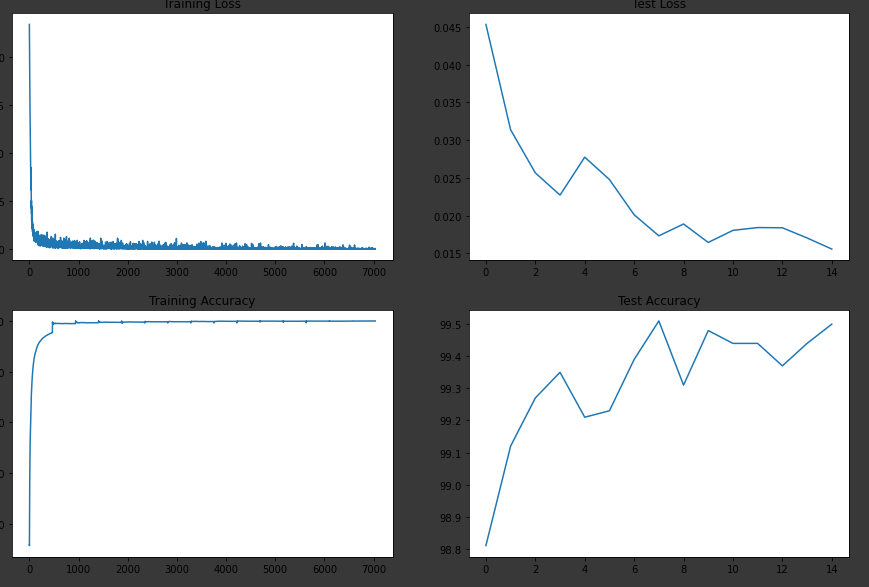
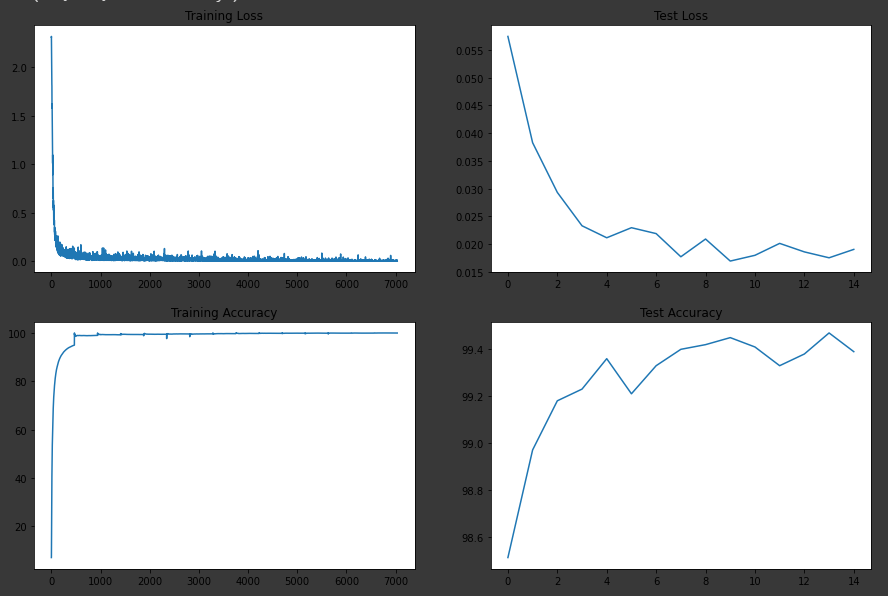
Updated Assets and Readme
1. Updated Older images with new images
2. Added receptive field image
3. Updated Readme

diff --git a/5. Code Drill/README.md b/5. Code Drill/README.md
@@ -28,6 +28,8 @@ For your first attempt, please share your:
 
 Here I aimed to reach at 99.4% accuracy in less than 15 epochs under 8k parameters (One should always aim big). To do so I divided the problem in 4 versions, where each version gets better and better.
 
+**Note:** Receptive Fields for All models is same as there is no structural change, only channel values are being changes. It is calculated and added in the end of the documentation.
+
 ### Version 1:
 
 This version was designed to develop a basic structure of the final model, here the target was not to reach the benchmark given in the assignment, it was more on a decent architecture that gives decent accuracy. 
@@ -44,9 +46,9 @@ This version was designed to develop a basic structure of the final model, here 
 
 **Results:** 
     
-    ```Train Accuracy : 99.97%```
-    ``` Test Accuracy: 99.50% ```
-    ```Total Parameters: 1,21,146```
+    ```Train Accuracy : 99.96%```
+    ``` Test Accuracy: 99.47% ```
+    ```Total Parameters: 1,04,762```
 
 <div align="center">
   <center>
@@ -99,9 +101,9 @@ Based on the observation in version 1, We decided to reduce the number of parame
 
 **Results:** 
     
-    ```Train Accuracy : 99.61%```
+    ```Train Accuracy : 99.60%```
     ``` Test Accuracy: 99.36% ```
-    ```Total Parameters: 9,602```
+    ```Total Parameters: 9,883```
 
 <div align="center">
   <center>
@@ -117,7 +119,7 @@ This Image represents the curve between the train/ test accuracy as loss. Here w
     2. Some Stratergies Common in both version:
        1. Structure of the model follows a pattern i.e. S,L,M,L,L,L.
        2. Here S stands for small, L stands for Large, M stands for Medium. 
-       3. GAP is used as Kernel size of 5x5.
+       3. GAP is used as Kernel size of 7x7.
        4. Max Pooling is used at Receptive Field of 5x5.
 
 **Observation:**
@@ -130,7 +132,7 @@ This Image represents the curve between the train/ test accuracy as loss. Here w
 
 Based on the observation in version 2, We decided to reduce the overfitting of the model to achieve the target accuracy.
 
-**Target:** Reach 99.4% accuracy in less than 10k parameters
+**Target:** Reach 99.4% accuracy in less than 10k parameters under 15 Epochs
 
 <div align="center">
   <center>
@@ -142,9 +144,9 @@ Based on the observation in version 2, We decided to reduce the overfitting of t
 
     Model 1: 
 
-    ```Train Accuracy : 99.36%```
-    ``` Test Accuracy: 99.52% ```
-    ```Total Parameters: 9,602```
+    ```Train Accuracy : 99.55%```
+    ``` Test Accuracy: 99.47% ```
+    ```Total Parameters: 9,883```
 
 With Step size as 6
 <div align="center">
@@ -155,8 +157,8 @@ With Step size as 6
 
     Model 2: 
 
-    ```Train Accuracy : 99.42%```
-    ``` Test Accuracy: 99.43% ```
+    ```Train Accuracy : 99.66%```
+    ``` Test Accuracy: 99.38% ```
     ```Total Parameters: 9,602```
 
 With Step size as 10
@@ -166,7 +168,20 @@ With Step size as 10
   </center>
 </div>
 
-This Image represents the curve between the train/ test accuracy as loss. Here we can see that as we train more, the loss decreases and the accuracy increases. Model 2 crosses our target accuracy. 
+    Model 3: 
+
+    ```Train Accuracy : 99.58%```
+    ``` Test Accuracy: 99.41% ```
+    ```Total Parameters: 9,602```
+
+With Step size as 10
+<div align="center">
+  <center>
+    <img src="Assets/Version_3_TTGraph_3.png">
+  </center>
+</div>
+
+This Image represents the curve between the train/ test accuracy as loss. Here we can see that as we train more, the loss decreases and the accuracy increases. Model 1 & 3 crosses our target accuracy. 
 The sudden spike in this graph is due to change in accuracy which somewhat changes the accuracy and loss for that epoch.
 Its analysis is discussed below 
 
@@ -186,9 +201,9 @@ Its analysis is discussed below
 **Observation:**
 
 1. The Model Architecture has cleared out test that it should cross 99.4% accracy in less than 10k paramters in less than 15 epochs
-2. LR Scheduler used is StepLR with a step size of 10 and 6
+2. LR Scheduler used is StepLR with a step size of 10,8 and 6
 3. Step size of 10 enables us to reach desired accuracy.
-4. Dropout used is 0.05
+4. Dropout used is 0.0
 5. Random Rotation is usewith range -5,5 with fill value 0
 6. We still not reach the ultimate goal to do it under 8k
 
@@ -197,6 +212,8 @@ Its analysis is discussed below
 ### Version 4:
 
 Based on the observation in version 3, We decided to reduce the parameter to 8k with maintaining the accuracy.
+
+**Target:** Reach 99.4% accuracy in less than 8k parameters under 15 Epochs
 
 <div align="center">
   <center>
@@ -208,9 +225,12 @@ Based on the observation in version 3, We decided to reduce the parameter to 8k 
 
     Model 1: 
 
-    ```Train Accuracy : 99.27%```
-    ``` Test Accuracy: 99.42% ```
-    ```Total Parameters:7,628```
+    ```Train Accuracy : 99.42%```
+    ``` Test Accuracy: 99.38% ```
+    ```Total Parameters:7,911```
+
+**We are close**
+
 
 With Step size as 10
 <div align="center">
@@ -221,9 +241,11 @@ With Step size as 10
 
     Model 2: 
 
-    ```Train Accuracy : 99.17%```
+    ```Train Accuracy : 99.31%```
     ``` Test Accuracy: 99.39% ```
-    ```Total Parameters: 7,628```
+    ```Total Parameters: 7,911```
+
+**One should never give up..!!! Perseverance is the key to success.. we will try again..!!**
 
 With Step size as 6
 <div align="center">
@@ -234,19 +256,21 @@ With Step size as 6
 
     Model 3: 
 
-    ```Train Accuracy : 99.26%```
-    ``` Test Accuracy: 99.45% ```
-    ```Total Parameters:7,628```
+    ```Train Accuracy : 99.43%```
+    ``` Test Accuracy: 99.42% ```
+    ```Total Parameters:7,911```
+
+**Hurrah..!! The ultimate goal of this assignment is achieved.**
 
 With Step size as 8
+
 <div align="center">
   <center>
     <img src="Assets/Version_4_TTGraph_3.png">
   </center>
 </div>
 
-
-This Image represents the curve between the train/ test accuracy as loss. Here we can see that as we train more, the loss decreases and the accuracy increases. 
+This Images represents the curve between the train/ test accuracy as loss. Here we can see that as we train more, the loss decreases and the accuracy increases. 
 
 **Analysis:**
 
@@ -254,16 +278,33 @@ This Image represents the curve between the train/ test accuracy as loss. Here w
     2. Stratergies followed:
        1. Structure of the model follows a pattern i.e. S,L,M,XL,XL,XL.
        2. Here S stands for small, L stands for Large, M stands for Medium and XL stands for Xtra Large. 
-       3. Dropout used is 0.05
+       3. Dropout used is 0
        4. Random Rotation is usewith range -5,5 with fill value 0
 
 **Observation:**
 
 1. The Model Architecture has cleared our ultimate goal
 2. We have used step size of 6, 8, 10
-3. Target Accuracy is achieved in step size 8 and 10.
+3. Target Accuracy is achieved in step size 8.
    
+### Receptive Field Calculation:
+
+The link will direct you to the excel sheet where Receptive Field is calculated. Here the structure of the model is same so the receptive field for all models is same.
+
+<div align="center">
+  <center>
+    <img src="Assets/ReceptiveField.png">
+  </center>
+</div>
+
+Here Receptive Field of the model is same to the object and as it mnist we are okay with that.
+
+[Excel Sheet](https://docs.google.com/spreadsheets/d/1bKrh3ggMtsCdBZY3utMckJnSM0hB0BmFIbtDAVVEifo/edit?usp=sharing)
 
 **Final Observations:**
 
 We have observed that it is good to break down problem is smaller problems and then tackle it individually. Here we achieved our ultimate goal by first making a draft model to get a decent accuracy, then upgraded that model to perform similar in less than 10 k parameters, Then upgraded that model to cross 99.4% accuracy and then upgraded that model to attain that accuracy in less than 8k paramters> As the problem increases we used more powerful tools liek image augmentation, dropout and LR scheduling. We fine tuned them to get the best of out it. 
+
+---
+
+<h3 align = "center"> Made with ❤ & 🍻 by KillerStrike</h3>
